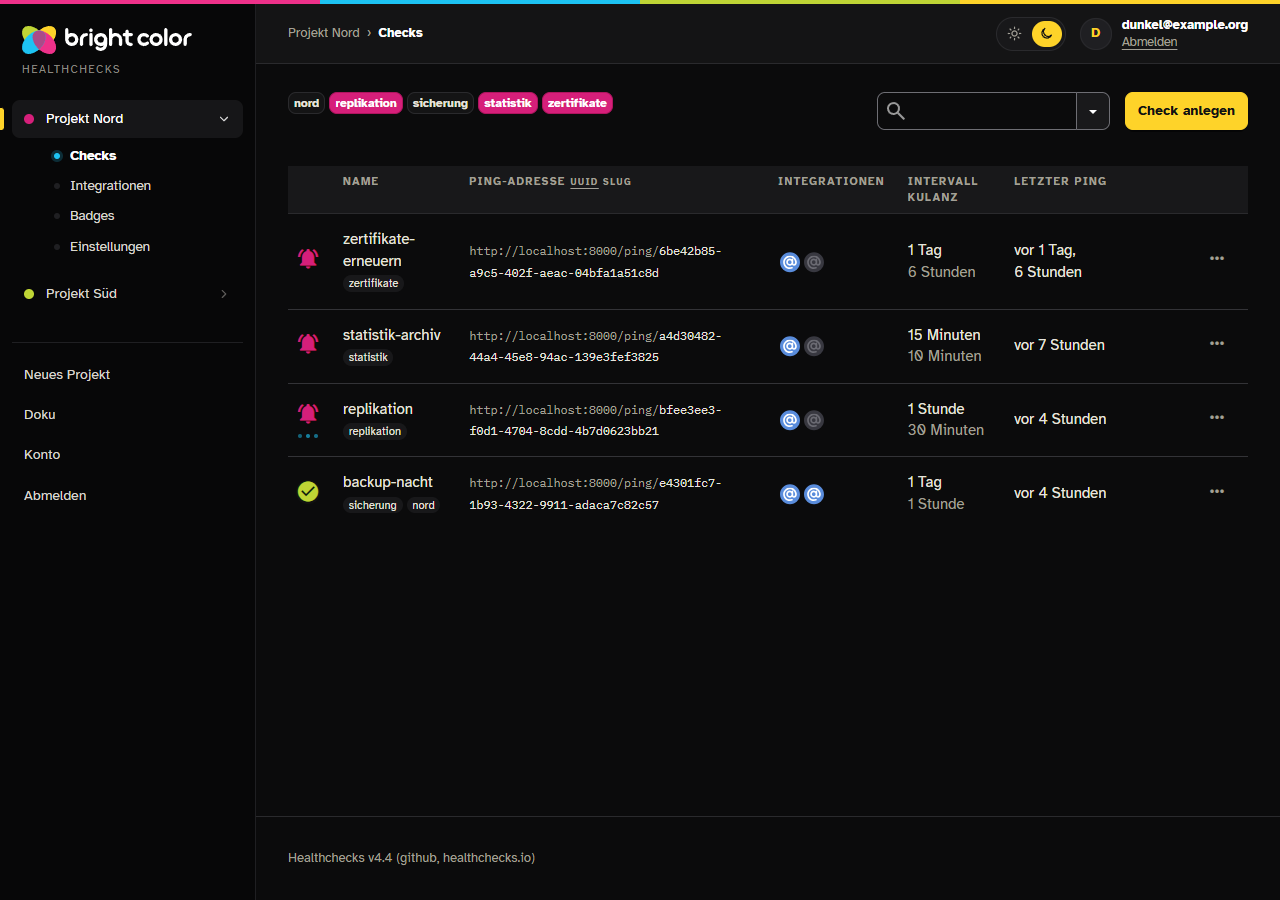
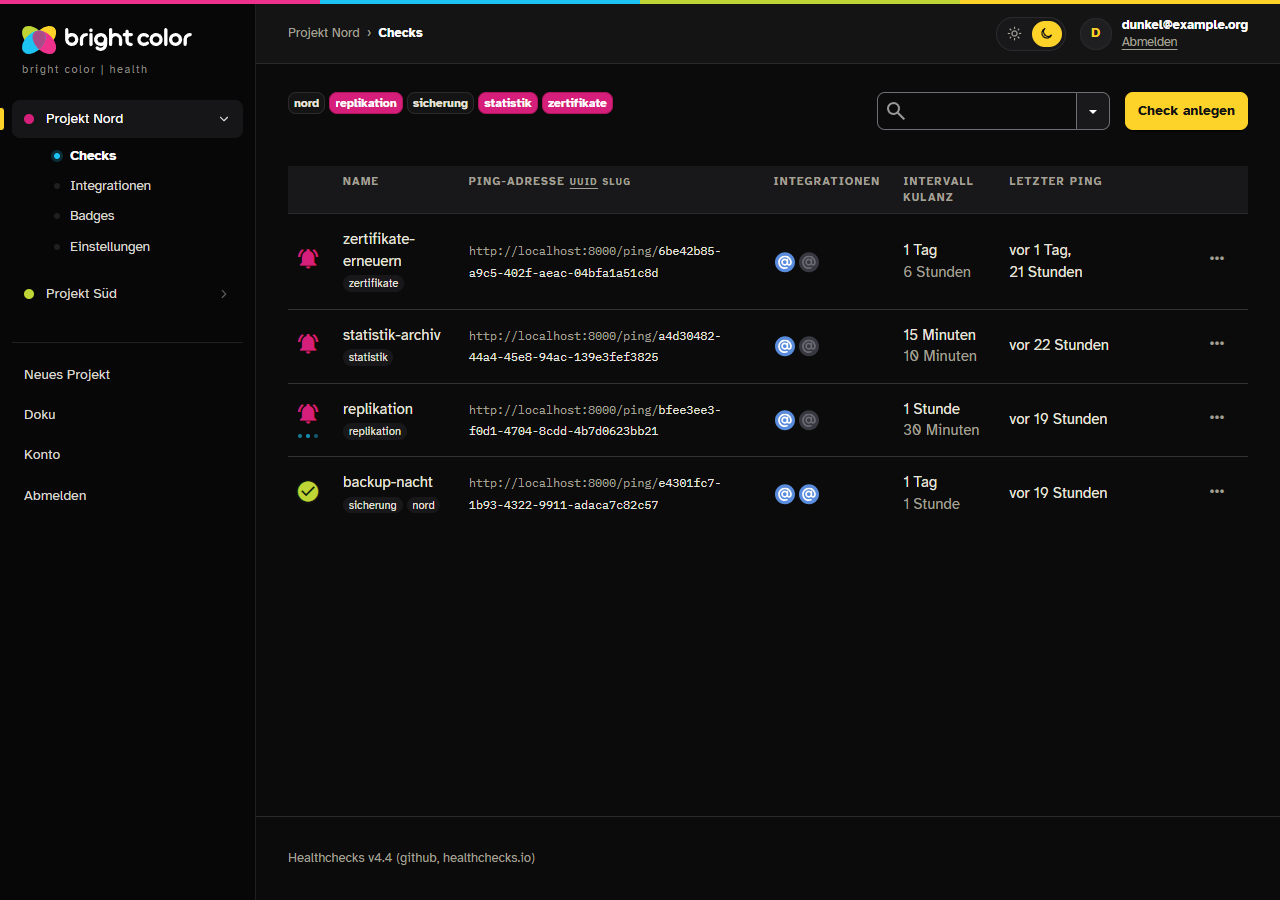
Name der Instanz mit Markennamen, Fassung 1.1.1
SITE_NAME erscheint an den Stellen in Versalien (Leiste, Etikett der
Anmeldefläche, Überschriften von Anmeldung und Doku) über das neue Tag
werkbank_name. Enthält der Name einen Eintrag aus WB_MARKEN (Vorgabe
"bright color"), steht er in <span class="bc-brand"> und bleibt so
geschrieben, wie er eingetragen ist.

- Erweiterungen: Tag werkbank_name, Anmelde-Überschrift in jeder Sprache,
  Platzhalter WERKBANK_NAME für die Doku; der Katalog übersetzt die
  Anmeldung mit dem Tag.
- Einstellung WB_MARKEN mit Grenzen und verständlicher Meldung.
- Nur-Text-Mails mit Platz für längere Namen und Adressen.
- Browserprüfung lokal und in der CI mit "bright color | health"
  (WB_DEV_SITE_NAME, WB_TEST_SITE_NAME); neuer Test marke.spec.mjs.
- README, CHANGELOG, Bilder und VERSION 1.1.1.

diff --git a/werkbank/templates/bc/leiste.html b/werkbank/templates/bc/leiste.html
@@ -10,7 +10,7 @@ Texte englisch wie Healthchecks; Adressen nur über {% url %}.
 <aside class="wb-marke" aria-label="{{ site_name }}">
     <img src="{% static 'bc/logo/bc-logo-light-noclaim.svg' %}" alt="bright color" width="170" height="28">
     <p class="wb-marke__gruss" aria-hidden="true">Moin.</p>
-    <p class="wb-marke__name">{{ site_name }}</p>
+    <p class="wb-marke__name">{% werkbank_name %}</p>
 </aside>
 {% else %}
 {% with muster="00000000-0000-0000-0000-000000000000" %}
@@ -26,7 +26,7 @@ Texte englisch wie Healthchecks; Adressen nur über {% url %}.
     <nav class="bc-rail" id="wb-leiste" aria-label="Navigation">
         <div class="bc-rail__brand">
             <a href="{% url 'hc-index' %}"><img src="{% static 'bc/logo/bc-logo-light-noclaim.svg' %}" alt="bright color: {{ site_name }}" width="170" height="28"></a>
-            <span class="bc-rail__area">{{ site_name }}</span>
+            <span class="bc-rail__area">{% werkbank_name %}</span>
         </div>
         {% if request.user.is_authenticated %}
         <ul class="bc-rail__nav wb-projekte">

diff --git a/werkbank/deutsch/mails/login-body-text.html b/werkbank/deutsch/mails/login-body-text.html
@@ -1,11 +1,12 @@
 {% load hc_extras %}
 {% block content %}Hallo,
 {% if membership %}
-{{ membership.project.owner.email }} lädt dich in ein Konto auf {% site_name %} ein.
+{{ membership.project.owner.email }} lädt dich in ein Konto
+auf {% site_name %} ein.
 
 {% if membership.role == "r" %}Dort siehst du die bestehenden Checks und kannst sie lesen.{% else %}Dort verwaltest du die bestehenden Checks und legst neue an.{% endif %}
-Hast du schon ein eigenes Konto auf {% site_name %}, wechselst du einfach
-zwischen beiden.{% endif %}
+Hast du schon ein eigenes Konto auf {% site_name %},
+wechselst du einfach zwischen beiden.{% endif %}
 
 Über diesen Link meldest du dich bei {% site_name %} an:
 

diff --git a/werkbank/deutsch/mails/deletion-notice-body-text.html b/werkbank/deutsch/mails/deletion-notice-body-text.html
@@ -1,9 +1,10 @@
 {% load hc_extras %}
 Hallo,
 
-dein Konto bei {% site_name %} für {{ email }} ist seit einem Jahr oder
-länger inaktiv. Brauchst du es nicht mehr, schließen wir es und löschen alle
-zugehörigen Daten endgültig.
+dein Konto bei {% site_name %}
+für {{ email }} ist seit einem Jahr oder länger inaktiv.
+Brauchst du es nicht mehr, schließen wir es und löschen alle zugehörigen
+Daten endgültig.
 
 Willst du das Konto behalten, melde dich einfach innerhalb von 30 Tagen an.
 Bleibt es inaktiv, wird dein Konto nach diesen 30 Tagen endgültig gelöscht.

diff --git a/werkbank/stil.css b/werkbank/stil.css
@@ -247,6 +247,9 @@ h2, .h2 { font-size: var(--bc-size-h2); letter-spacing: .03em; }
 
 h3, h4, h5, h6, .h3, .h4, .h5, .h6 { font-family: var(--bc-font-text); font-weight: 700; color: var(--bc-text-loud); }
 
+/* Markenname in Versalien: steht so, wie er geschrieben ist (Tag werkbank_name, WB_MARKEN). */
+.bc-brand { text-transform: none; font-variant-caps: normal; }
+
 /* Zusätze und Knöpfe in Titeln stehen in der Textschrift. */
 :is(h1, h2, .modal-title) :is(small, .btn, .btn-group) {
 	font-family: var(--bc-font-text);

diff --git a/werkbank/deutsch/mails/sms-limit-body-text.html b/werkbank/deutsch/mails/sms-limit-body-text.html
@@ -1,9 +1,9 @@
 {% load hc_extras %}Hallo,
 
 eine {{ transport }}-Benachrichtigung an {{ recipient|mask_phone }} ging nicht
-raus: Das Konto {{ owner_email }} bei {% site_name %} hat sein
-Monatslimit von {{ limit }} Nachrichten erreicht. Das Limit beginnt zum
-Monatsanfang neu.
+raus: Das Konto {{ owner_email }}
+bei {% site_name %} hat sein Monatslimit von {{ limit }} Nachrichten
+erreicht. Das Limit beginnt zum Monatsanfang neu.
 
 Diese Nachricht sollte rausgehen:
 

diff --git a/werkbank/deutsch/mails/phone-call-limit-body-text.html b/werkbank/deutsch/mails/phone-call-limit-body-text.html
@@ -1,8 +1,9 @@
 {% load hc_extras %}Hallo,
 
 ein Anruf bei {{ recipient|mask_phone }} fand nicht statt: Das Konto
-{{ owner_email }} bei {% site_name %} hat sein Monatslimit von {{ limit }}
-Anrufen erreicht. Das Limit beginnt zum Monatsanfang neu.
+{{ owner_email }} bei {% site_name %}
+hat sein Monatslimit von {{ limit }} Anrufen erreicht. Das Limit beginnt
+zum Monatsanfang neu.
 
 Diese Ansage war vorgesehen:
 

diff --git a/werkbank/deutsch/mails/flapping-notice-body-text.html b/werkbank/deutsch/mails/flapping-notice-body-text.html
@@ -13,8 +13,8 @@ Häufige Ursachen:
   Kulanz ist zu kurz.
 
 Sieh dir bitte an, woher die häufigen Wechsel kommen, und behebe die
-Ursache. Kommst du nicht in dein Konto bei {% site_name %} oder hast du
-Fragen, schreib an {{ support_email }}.
+Ursache. Kommst du nicht in dein Konto bei {% site_name %}
+oder hast du Fragen, schreib an {{ support_email }}.
 
 Viele Grüße
 {% site_name %}

diff --git a/werkbank/deutsch/mails/deletion-scheduled-body-text.html b/werkbank/deutsch/mails/deletion-scheduled-body-text.html
@@ -1,8 +1,8 @@
 {% load hc_extras %}
 Hallo,
 
-das Konto bei {% site_name %} für {{ owner_email }} wird am
-{{ deletion_scheduled_date|date:"j. F Y" }} gelöscht.
+das Konto bei {% site_name %}
+für {{ owner_email }} wird am {{ deletion_scheduled_date|date:"j. F Y" }} gelöscht.
 
 Angaben zum Konto:
 Eigentümer: {{ owner_email }}

diff --git a/werkbank/deutsch/mails/verify-email-body-text.html b/werkbank/deutsch/mails/verify-email-body-text.html
@@ -1,8 +1,8 @@
 {% load hc_extras %}
 Hallo,
 
-damit diese Adresse Benachrichtigungen von {% site_name %} bekommt,
-bestätige sie über diesen Link:
+damit diese Adresse Benachrichtigungen von {% site_name %}
+bekommt, bestätige sie über diesen Link:
 
 {{ verify_link }}
 

diff --git a/tests/test_erweiterungen.py b/tests/test_erweiterungen.py
@@ -1,10 +1,17 @@
 """Filter und Tags, die werkbank/erweiterungen.toml in hc/front/templatetags/hc_extras.py einsetzt."""
+import html
 import tomllib
 from pathlib import Path
 from types import SimpleNamespace
 
 WURZEL = Path(__file__).resolve().parent.parent
 ANKER = "register = template.Library()"
+ERWEITERUNGEN = tomllib.loads((WURZEL / "werkbank" / "erweiterungen.toml").read_text(encoding="utf-8"))["quelltext"]
+
+
+def format_html(vorlage: str, *werte) -> str:
+    """Steht für Djangos format_html, das hc_extras selbst importiert."""
+    return vorlage.format(*(html.escape(str(w)) for w in werte))
 
 
 class Sammler:
@@ -18,10 +25,10 @@ class Sammler:
 
 
 def laden(**einstellungen):
-    daten = tomllib.loads((WURZEL / "werkbank" / "erweiterungen.toml").read_text(encoding="utf-8"))
-    (eintrag,) = [e for e in daten["quelltext"] if e["datei"] == "hc/front/templatetags/hc_extras.py"]
+    (eintrag,) = [e for e in ERWEITERUNGEN if e["datei"] == "hc/front/templatetags/hc_extras.py"]
     assert ANKER in eintrag["en"] and ANKER in eintrag["de"]
-    namen = {"register": Sammler(), "settings": SimpleNamespace(**einstellungen)}
+    namen = {"register": Sammler(), "settings": SimpleNamespace(**einstellungen),
+             "format_html": format_html, "escape": html.escape}
     exec(compile(eintrag["de"].replace(ANKER, ""), "erweiterungen.toml", "exec"), namen)
     return namen
 
@@ -81,3 +88,41 @@ def test_werkbank_mail_liefert_einstellung_oder_leer():
     tag = laden(WB_MAIL_IMPRESSUM_URL="https://example.org/impressum")["werkbank_mail"]
     assert tag("WB_MAIL_IMPRESSUM_URL") == "https://example.org/impressum"
     assert tag("WB_MAIL_DATENSCHUTZ_URL") == ""
+
+
+def test_werkbank_name_setzt_namen_mit_marke_in_bc_brand():
+    tag = laden(SITE_NAME="bright color | health", WERKBANK_MARKEN=["bright color"])["werkbank_name"]
+    assert tag() == '<span class="bc-brand">bright color | health</span>'
+
+
+def test_werkbank_name_findet_jede_marke_der_liste_in_jeder_schreibung():
+    tag = laden(SITE_NAME="Monitoring by ACME", WERKBANK_MARKEN=["bright color", "acme"])["werkbank_name"]
+    assert tag() == '<span class="bc-brand">Monitoring by ACME</span>'
+
+
+def test_werkbank_name_ohne_marke_bleibt_beim_namen():
+    assert laden(SITE_NAME="Healthchecks", WERKBANK_MARKEN=["bright color"])["werkbank_name"]() == "Healthchecks"
+    assert laden(SITE_NAME="bright color | health", WERKBANK_MARKEN=[])["werkbank_name"]() == "bright color | health"
+    assert laden(SITE_NAME="bright color | health")["werkbank_name"]() == "bright color | health"
+
+
+def test_werkbank_name_maskiert_html():
+    tag = laden(SITE_NAME="<b>bright color</b> & Co", WERKBANK_MARKEN=["bright color"])["werkbank_name"]
+    assert tag() == '<span class="bc-brand">&lt;b&gt;bright color&lt;/b&gt; &amp; Co</span>'
+    assert laden(SITE_NAME="A & B", WERKBANK_MARKEN=[])["werkbank_name"]() == "A &amp; B"
+
+
+def test_katalog_uebersetzt_die_anmeldung_mit_werkbank_name():
+    # Der Katalog läuft nach den Erweiterungen; sein Anker ist deren Ersatz.
+    (anmeldung,) = [e for e in ERWEITERUNGEN if e["datei"] == "templates/accounts/login.html"]
+    katalog = tomllib.loads((WURZEL / "werkbank" / "deutsch" / "oberflaeche.toml").read_text(encoding="utf-8"))
+    eintraege = [e for e in katalog["quelltext"] if e["datei"] == "templates/accounts/login.html" and "<h1>" in e["en"]]
+    assert [e["en"] for e in eintraege] == [anmeldung["de"]]
+    assert "{% werkbank_name %}" in eintraege[0]["de"]
+
+
+def test_doku_platzhalter_steht_in_fragment_und_ersetzung():
+    (fragment,) = [e for e in ERWEITERUNGEN if e["datei"] == "templates/docs/introduction.html-fragment"]
+    (ansicht,) = [e for e in ERWEITERUNGEN if e["datei"] == "hc/front/views.py"]
+    assert "WERKBANK_NAME" in fragment["de"] and "SITE_NAME" in fragment["en"]
+    assert '"WERKBANK_NAME": werkbank_name(),' in ansicht["de"]

diff --git a/tests/test_werkbank_einstellungen.py b/tests/test_werkbank_einstellungen.py
@@ -27,7 +27,7 @@ def laden(sprache_="de", zustaende='{"down": "ausgefallen"}', arten='{"shell": "
 
 @pytest.fixture(autouse=True)
 def ohne_mail_umgebung(monkeypatch):
-    for name in MAIL:
+    for name in (*MAIL, "WB_MARKEN"):
         monkeypatch.delenv(name, raising=False)
 
 
@@ -79,6 +79,32 @@ def test_ungueltige_mail_einstellungen(monkeypatch, name, wert, meldung):
         laden()
 
 
+def test_marken_vorgabe_ist_bright_color():
+    namen = laden()
+    assert namen["WERKBANK_MARKEN"] == ["bright color"]
+    assert "WERKBANK_MARKEN" in namen["__all__"]
+
+
+@pytest.mark.parametrize("wert, erwartet", [
+    ("acme, Beispiel GmbH ,", ["acme", "Beispiel GmbH"]),
+    ("", []),
+    (" , ", []),
+])
+def test_marken_aus_der_umgebung(monkeypatch, wert, erwartet):
+    monkeypatch.setenv("WB_MARKEN", wert)
+    assert laden()["WERKBANK_MARKEN"] == erwartet
+
+
+@pytest.mark.parametrize("wert, meldung", [
+    (",".join(f"marke{i}" for i in range(11)), "nennt 11 Namen. Erlaubt sind höchstens 10"),
+    ("x" * 65, "mit 65 Zeichen. Erlaubt sind höchstens 64"),
+])
+def test_ungueltige_marken(monkeypatch, wert, meldung):
+    monkeypatch.setenv("WB_MARKEN", wert)
+    with pytest.raises(ImproperlyConfigured, match=meldung):
+        laden()
+
+
 def test_formatmodul_haelt_den_dezimalpunkt():
     namen: dict = {"__file__": str(VORLAGE)}
     exec(compile(FORMATE.read_text(encoding="utf-8"), str(FORMATE), "exec"), namen)
@@ -86,11 +112,10 @@ def test_formatmodul_haelt_den_dezimalpunkt():
     assert "DATE_FORMAT" not in namen
 
 
-def test_erweiterung_trifft_hc_extras_der_standversion():
+def test_erweiterungen_treffen_die_standversion():
     stand = tomllib.loads((WURZEL / "werkbank" / "deutsch" / "katalog.toml").read_text(encoding="utf-8"))["katalog"]["stand"]
-    ziel = WURZEL / ".upstream" / stand / "hc" / "front" / "templatetags" / "hc_extras.py"
-    if not ziel.is_file():
+    quelle = WURZEL / ".upstream" / stand
+    if not (quelle / "hc" / "front" / "templatetags" / "hc_extras.py").is_file():
         pytest.skip(f"Keine Quelle von Healthchecks {stand} unter .upstream/.")
-    text = sprache.lies(ziel)[0]
     for e in sprache.lade_eintraege(WURZEL / "werkbank" / "erweiterungen.toml"):
-        assert text.count(e.en) == e.anzahl, e.herkunft
+        assert sprache.lies(quelle / e.datei)[0].count(e.en) == e.anzahl, e.herkunft

diff --git a/werkbank/django/werkbank_einstellungen.py b/werkbank/django/werkbank_einstellungen.py
@@ -18,6 +18,7 @@ __all__ = [
     "WB_MAIL_ANSCHRIFT",
     "WB_MAIL_IMPRESSUM_URL",
     "WB_MAIL_DATENSCHUTZ_URL",
+    "WERKBANK_MARKEN",
 ]
 
 # Vom Bau gesetzt: WB_SPRACHE und die Wörtertabellen [zustaende], [arten] und [rollen] des Katalogs.
@@ -71,3 +72,28 @@ def _mail_einstellung(name: str) -> str:
 WB_MAIL_ANSCHRIFT = _mail_einstellung("WB_MAIL_ANSCHRIFT")
 WB_MAIL_IMPRESSUM_URL = _mail_einstellung("WB_MAIL_IMPRESSUM_URL")
 WB_MAIL_DATENSCHUTZ_URL = _mail_einstellung("WB_MAIL_DATENSCHUTZ_URL")
+
+# Markennamen, die an Stellen in Versalien so erscheinen, wie sie geschrieben sind (Tag werkbank_name).
+# WB_MARKEN nennt sie mit Komma getrennt; leer schaltet die Sonderbehandlung ab.
+MARKEN_VORGABE = "bright color"
+MARKEN_HOECHSTENS = 10
+MARKE_ZEICHEN_HOECHSTENS = 64
+
+
+def _marken() -> list[str]:
+    marken = [m.strip() for m in os.environ.get("WB_MARKEN", MARKEN_VORGABE).split(",") if m.strip()]
+    if len(marken) > MARKEN_HOECHSTENS:
+        raise ImproperlyConfigured(
+            f"WB_MARKEN nennt {len(marken)} Namen. Erlaubt sind höchstens {MARKEN_HOECHSTENS}; "
+            "die Liste kürzen, Namen mit Komma getrennt, etwa „bright color, Beispiel GmbH“."
+        )
+    for marke in marken:
+        if len(marke) > MARKE_ZEICHEN_HOECHSTENS:
+            raise ImproperlyConfigured(
+                f"WB_MARKEN enthält „{marke[:20]}…“ mit {len(marke)} Zeichen. Erlaubt sind höchstens "
+                f"{MARKE_ZEICHEN_HOECHSTENS} Zeichen je Name; den Namen kürzen."
+            )
+    return marken
+
+
+WERKBANK_MARKEN = _marken()
